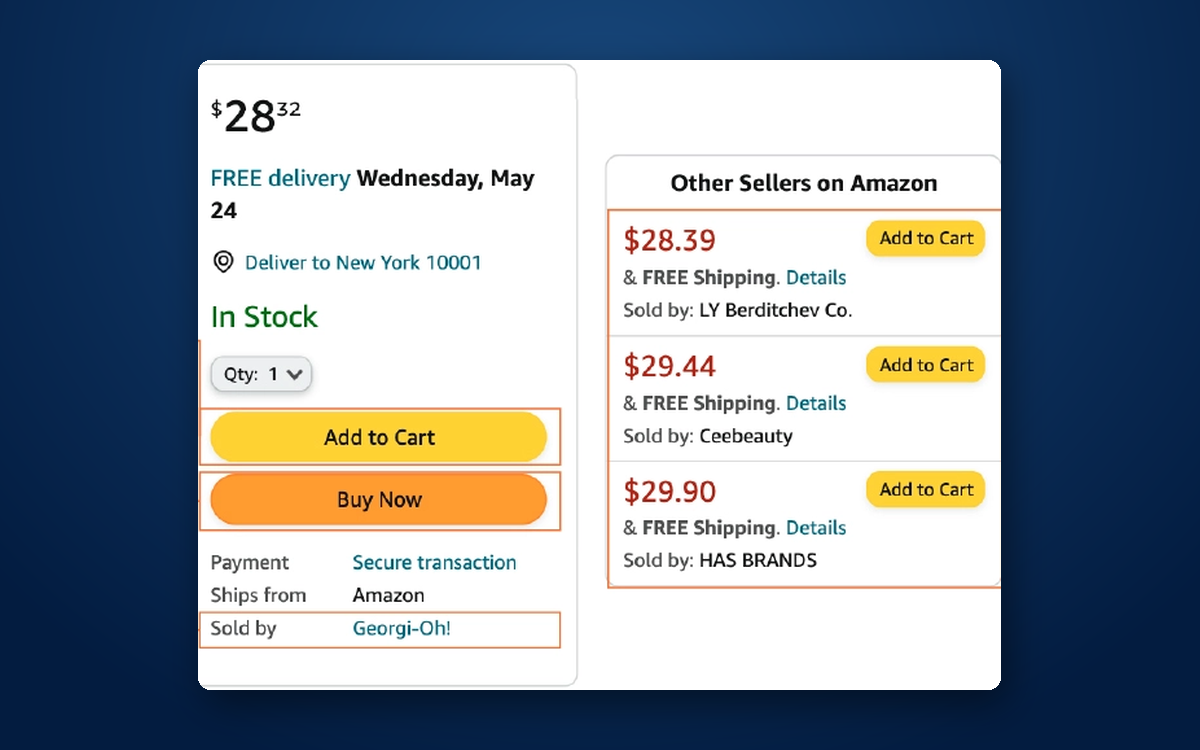
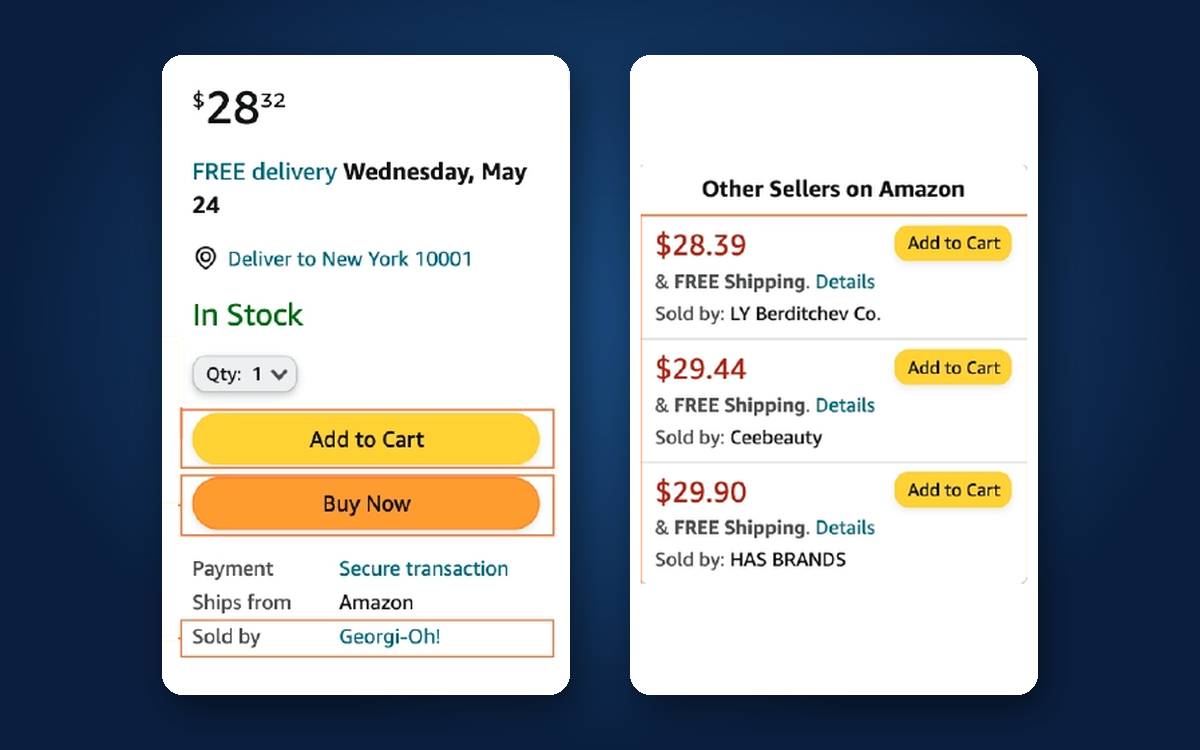
Refine research theme cards and update images

Changed region(s): [[0.0925, 0.0, 0.925, 0.9507]]

diff --git a/_pages/research.md b/_pages/research.md
@@ -19,30 +19,30 @@ nav_order: 2
 
 .research-headline {
   font-family: Georgia, "Times New Roman", serif;
-  font-size: 2.4rem;
+  font-size: 2rem;
   line-height: 1.15;
   font-weight: 700;
-  margin-bottom: 2.4rem;
+  margin-bottom: 1.6rem;
 }
 
 .research-theme-grid {
   display: grid;
   grid-template-columns: repeat(3, minmax(0, 1fr));
-  gap: 1.5rem;
-  margin-bottom: 4.5rem;
+  gap: 1rem;
+  margin-bottom: 3rem;
 }
 
 .research-card {
   border: none;
-  border-radius: 22px;
-  padding: 1.5rem;
-  background: #062248;
+  border-radius: 18px;
+  padding: 1.1rem;
+  background: #0A1F3F;
   color: white;
   min-height: 100%;
 }
 
 .research-card-image-wrap {
-  height: 220px;
+  height: 165px;
   display: flex;
   align-items: center;
   justify-content: center;
@@ -69,7 +69,7 @@ nav_order: 2
   font-size: 0.72rem;
   font-style: italic;
   opacity: 0.7;
-  margin-bottom: 1.4rem;
+  margin-bottom: 1rem;
 }
 
 .research-card-label {
@@ -82,14 +82,14 @@ nav_order: 2
 }
 
 .research-card-title {
-  font-size: 1.18rem;
+  font-size: 1.05rem;
   line-height: 1.35;
   font-weight: 700;
   margin-bottom: 0.75rem;
 }
 
 .research-card-text {
-  font-size: 0.96rem;
+  font-size: 0.9rem;
   line-height: 1.6;
   opacity: 0.9;
   margin: 0;
@@ -122,7 +122,7 @@ nav_order: 2
 
 .research-paper-status {
   font-style: italic;
-  margin-bottom: 1.4rem;
+  margin-bottom: 1rem;
 }
 
 .research-paper-abstract-label {
